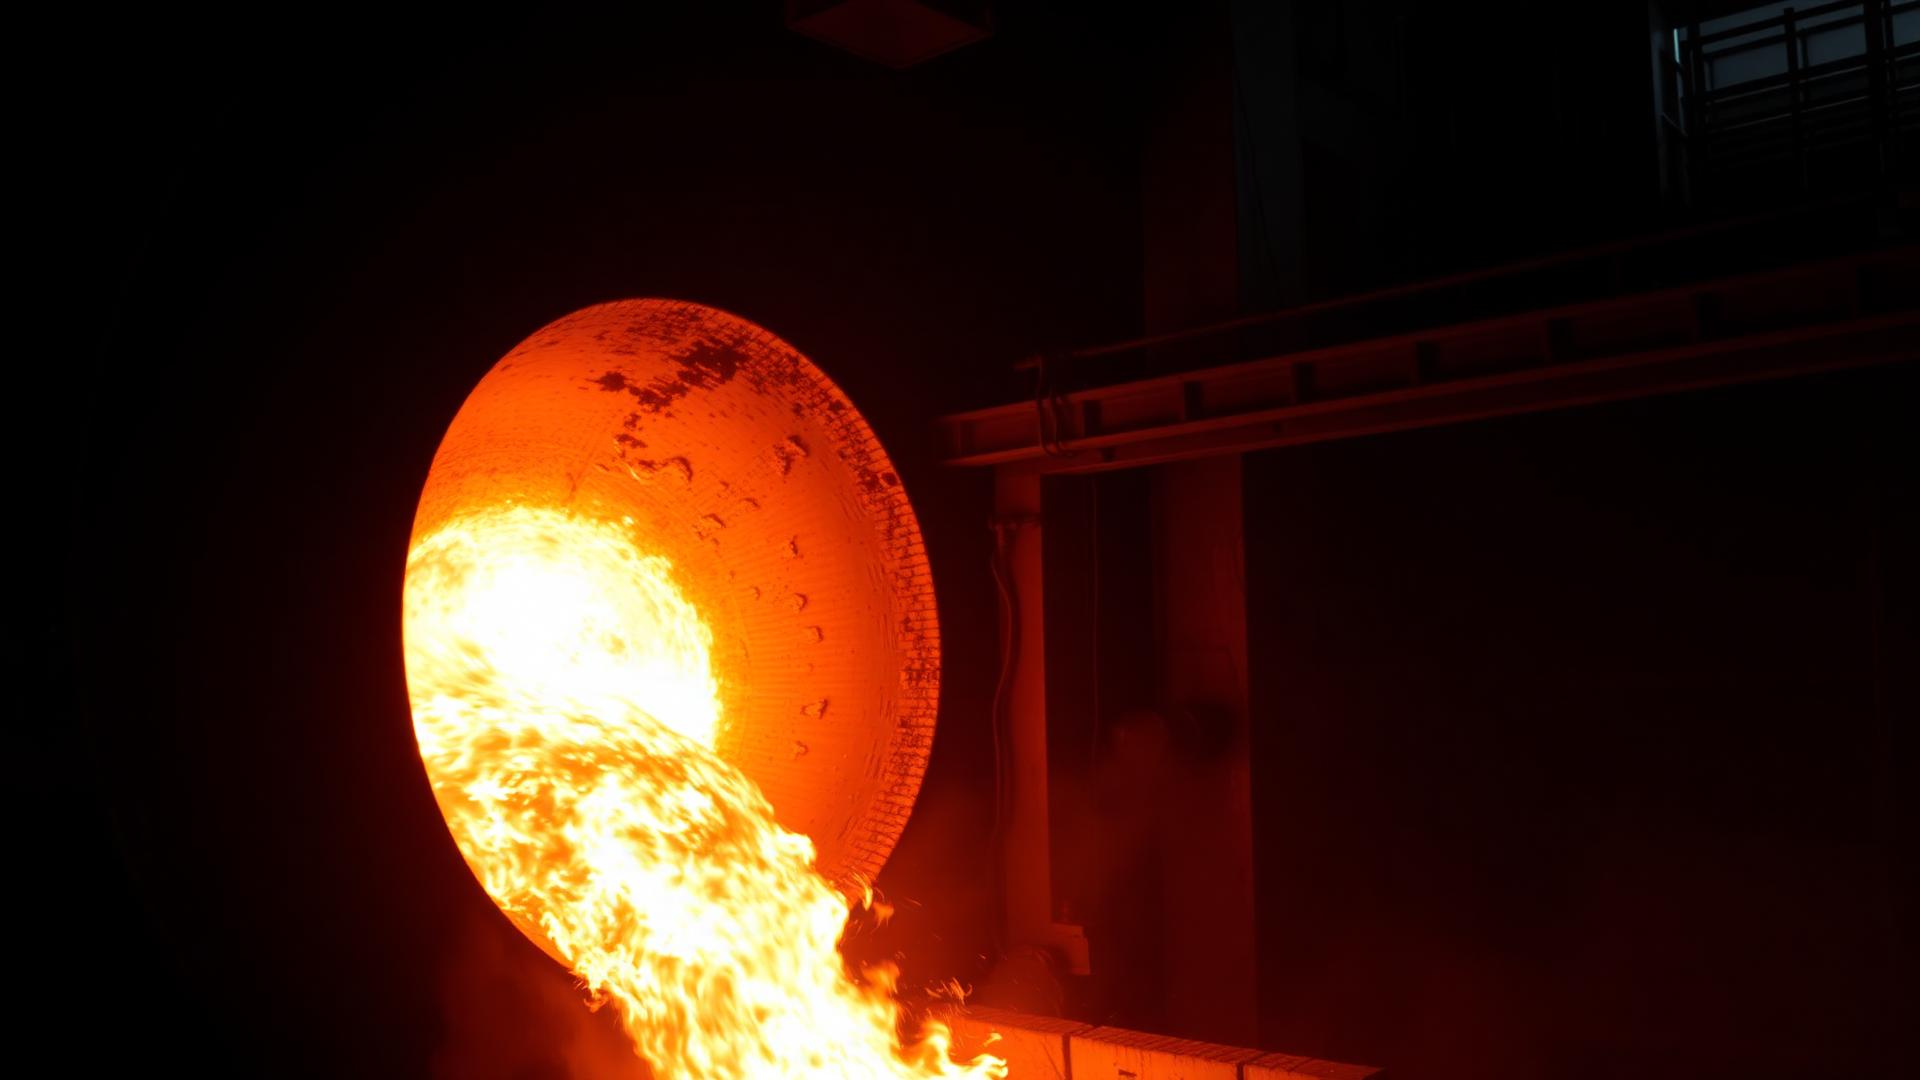
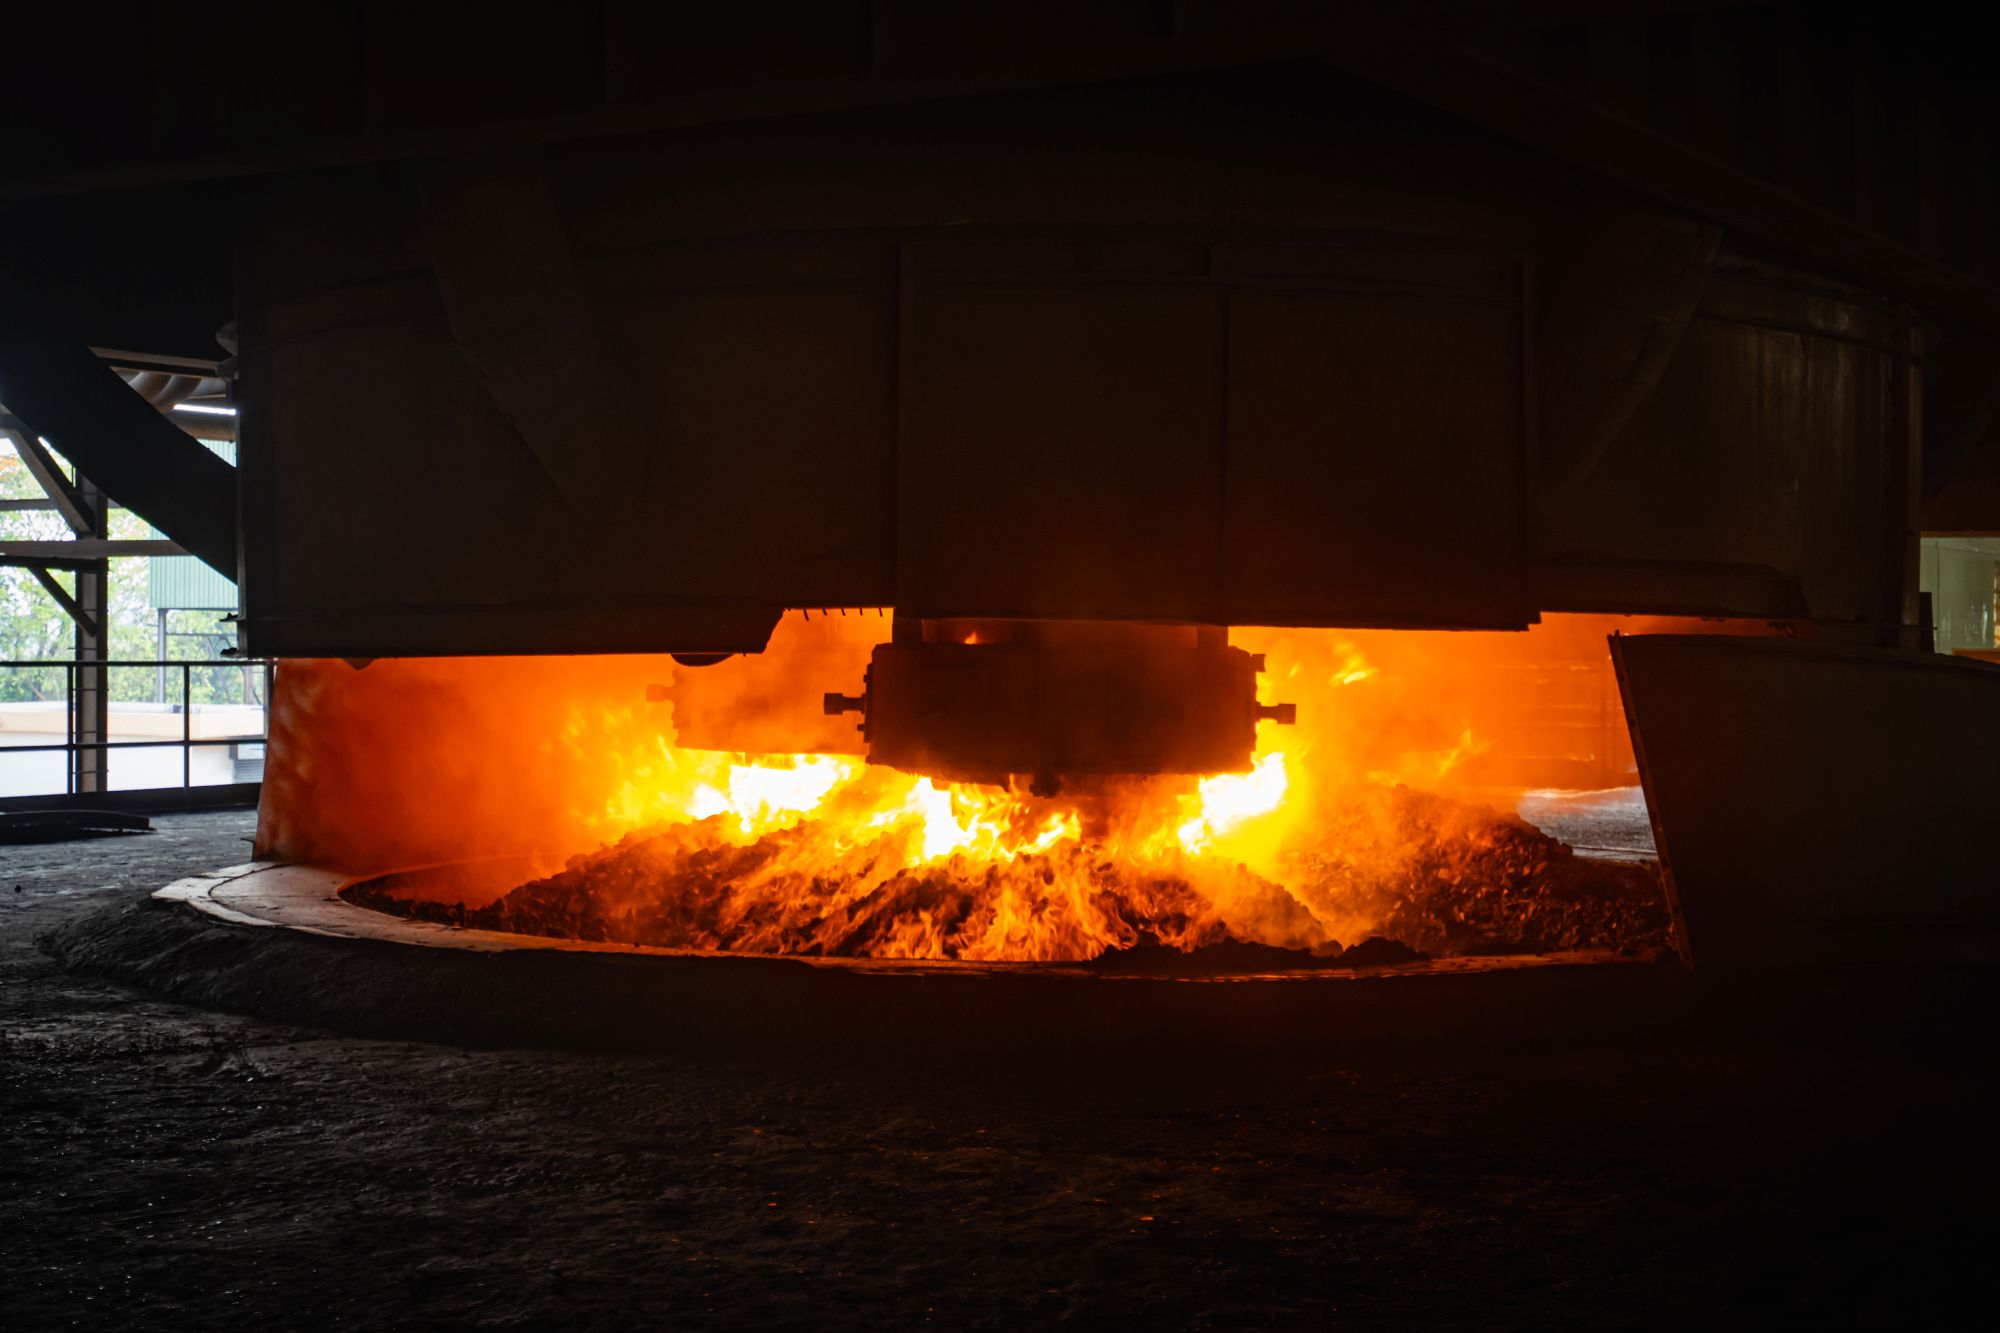
fixd

diff --git a/src/components/home/Business.tsx b/src/components/home/Business.tsx
@@ -1,3 +1,4 @@
+import { useState } from "react";
 import { ArrowUpRight } from "lucide-react";
 import productHc from "@/assets/product-hc.jpg";
 import productCoal from "@/assets/product-coal.jpg";
@@ -17,37 +18,57 @@ const products = [
 ];
 
 export function Business() {
+  const [activeIndex, setActiveIndex] = useState(0);
+
   return (
     <section className="relative py-24 px-6 lg:px-16 text-white overflow-hidden">
-      <img src={businessBg} alt="" width={1920} height={1024} loading="lazy" className="absolute inset-0 w-full h-full object-cover" />
-      <div className="absolute inset-0 bg-gradient-to-b from-black/70 via-black/60 to-black/80" />
-      <div className="relative max-w-[1400px] mx-auto">
-        <div className="text-center max-w-3xl mx-auto">
-          <h2 className="font-display font-semibold text-4xl md:text-5xl">Our Business</h2>
-          <p className="mt-5 text-white/80 leading-relaxed">
+      {/* Background Image and Overlay */}
+      <img src={businessBg} alt="" loading="lazy" className="absolute inset-0 w-full h-full object-cover" />
+      <div className="absolute inset-0 bg-black/80" />
+      
+      <div className="relative z-10 max-w-[1420px] mx-auto">
+        <div className="text-center max-w-[1061px] mx-auto flex flex-col items-center">
+          <h2 className="font-display font-semibold text-4xl md:text-5xl lg:text-[56px] leading-[1.1]">Our Business</h2>
+          <p className="mt-6 text-white text-[16px] lg:text-[24px] font-['Open_Sans'] leading-[1.4] lg:leading-[100%] text-center max-w-[900px]">
             Our product portfolio is built to serve varied steelmaking requirements, with Ferro Manganese grades that support strength, hardness, carbon control, and metallurgical consistency.
           </p>
-          <button className="mt-8 bg-brand text-brand-foreground text-xs font-bold tracking-widest px-6 py-3 rounded-md hover:opacity-90 transition">
+          <button className="mt-10 bg-[#EB1E28] text-white font-['Open_Sans'] text-[14px] font-semibold leading-[100%] tracking-[0.01em] uppercase px-8 h-[50px] rounded-[6px] flex items-center justify-center hover:opacity-90 transition">
             EXPLORE OUR PRODUCTS
           </button>
         </div>
-        <div className="mt-16 grid grid-cols-2 md:grid-cols-3 lg:grid-cols-6 gap-3">
-          {products.map((p, i) => (
-            <div key={p.name} className={`relative h-[360px] rounded-sm overflow-hidden group cursor-pointer ${i === 0 ? "ring-2 ring-brand" : ""}`}>
-              <img src={p.img} alt={p.name} width={512} height={800} loading="lazy" className="w-full h-full object-cover group-hover:scale-105 transition duration-500" />
-              {i === 0 && <div className="absolute inset-0 bg-brand/60" />}
-              <div className="absolute top-4 left-4">
-                <div className="w-10 h-10 bg-white rounded-sm flex items-center justify-center">
-                  <ArrowUpRight className="w-5 h-5 text-foreground" />
-                </div>
+
+        {/* Carousel / Grid */}
+        <div className="mt-20 flex flex-col lg:flex-row items-center justify-center gap-[20px] p-[10px] w-full mx-auto">
+          {products.map((p, i) => {
+            const isActive = i === activeIndex;
+            return (
+              <div 
+                key={p.name} 
+                onClick={() => setActiveIndex(i)}
+                className={`relative rounded-[10px] overflow-hidden shrink-0 transition-all duration-500 ease-in-out cursor-pointer shadow-lg
+                  ${isActive ? 'w-full lg:w-[350px] h-[500px]' : 'w-full lg:w-[190px] h-[300px] lg:h-[500px] hover:opacity-80'}`}
+              >
+                <img src={p.img} alt={p.name} loading="lazy" className="absolute inset-0 w-full h-full object-cover" />
+                
+                {/* Overlay for inactive cards (optional slight dimming) */}
+                {!isActive && <div className="absolute inset-0 bg-black/20" />}
+
+                {/* Active Card Content */}
+                {isActive && (
+                  <div className="absolute inset-[26px] bg-[#EB1E28]/60 flex flex-col items-center justify-between transition-opacity duration-500">
+                    <div className="flex-1 flex items-center justify-center w-full">
+                       <div className="w-[50px] h-[50px] bg-white rounded-sm flex items-center justify-center text-[#EB1E28] shadow-md">
+                         <ArrowUpRight className="w-6 h-6" strokeWidth={2.5} />
+                       </div>
+                    </div>
+                    <div className="w-[calc(100%-40px)] bg-white text-black py-4 px-2 mb-[20px] text-center text-[14px] font-bold font-['Open_Sans'] rounded-sm shadow-md leading-snug">
+                      {p.name}
+                    </div>
+                  </div>
+                )}
               </div>
-              {i === 0 && (
-                <div className="absolute bottom-4 left-4 right-4 bg-white text-foreground p-3 rounded-sm text-center text-xs font-semibold">
-                  {p.name}
-                </div>
-              )}
-            </div>
-          ))}
+            );
+          })}
         </div>
       </div>
     </section>

diff --git a/src/components/home/Stats.tsx b/src/components/home/Stats.tsx
@@ -1,43 +1,50 @@
-import heroFurnace from "@/assets/hero-furnace.jpg";
+import heroFurnace from "@/assets/hero-furnace1.jpg";
 import statPlant from "@/assets/stat-plant.jpg";
 import containers from "@/assets/containers.jpg";
 
 export function Stats() {
   return (
-    <section className="relative bg-surface text-surface-foreground py-20 px-6 lg:px-16 overflow-hidden">
-      <div className="absolute inset-0 opacity-30">
-        <img src={heroFurnace} alt="" width={1920} height={1080} loading="lazy" className="w-full h-full object-cover" />
-        <div className="absolute inset-0 bg-gradient-to-r from-surface via-surface/70 to-surface/40" />
+    <section className="relative w-full min-h-[900px] flex items-center justify-center py-20 lg:py-0 overflow-hidden">
+      {/* Background Image and Overlay */}
+      <div className="absolute inset-0 bg-black">
+        <img src={heroFurnace} alt="Background" loading="lazy" className="w-full h-full object-cover opacity-80" />
+        <div className="absolute inset-0 bg-gradient-to-r from-black via-black/60 to-black/10" />
       </div>
-      <div className="relative max-w-[1400px] mx-auto grid lg:grid-cols-2 gap-16 items-center">
-        <div className="space-y-14">
+
+      <div className="relative z-10 w-full max-w-[1418px] mx-auto px-6 xl:px-0 flex flex-col lg:flex-row items-center lg:items-start justify-between gap-16 lg:gap-0">
+
+        {/* Left Stats Column */}
+        <div className="w-full lg:w-[492px] flex flex-col gap-[50px] lg:mt-10">
           {[
             { num: "25+", title: "Countries Served Globally", desc: "Trusted suppliers ensures consistent raw material quality for stable production" },
             { num: "83,682 MT", title: "Annual Ferro Alloys Manufacturing Capacity", desc: "Large scale manufacturing projects each year with proven delivery timelines" },
             { num: "5,500+ MT", title: "Monthly Export Volume", desc: "Large scale manufacturing projects each year with proven delivery timelines" },
           ].map((s) => (
-            <div key={s.num} className="border-l-2 border-brand pl-6">
-              <div className="text-4xl md:text-5xl font-semibold">{s.num}</div>
-              <div className="mt-2 font-medium">{s.title}</div>
-              <div className="text-sm text-white/60 mt-1 max-w-md">{s.desc}</div>
+            <div key={s.num} className="border-l-2 border-[#EB1E28] pl-[20px] flex flex-col gap-[8px]">
+              <div className="text-[40px] md:text-[50px] font-bold text-white leading-none">{s.num}</div>
+              <div className="text-[16px] md:text-[18px] font-semibold text-white leading-snug">{s.title}</div>
+              <div className="text-[14px] text-white/70 max-w-[400px] leading-relaxed">{s.desc}</div>
             </div>
           ))}
         </div>
-        <div className="space-y-6">
+
+        {/* Right Images Column */}
+        <div className="w-full lg:w-[570px] flex flex-col gap-[40px]">
           {[
             { img: statPlant, title: "Largest Indian Producer", sub: "of MC & LC FeMn" },
             { img: containers, title: "Star Export House", sub: "Recognised Export Status" },
           ].map((c) => (
-            <div key={c.title} className="relative h-[200px] rounded-sm overflow-hidden group">
-              <img src={c.img} alt={c.title} width={768} height={512} loading="lazy" className="w-full h-full object-cover" />
-              <div className="absolute inset-0 bg-gradient-to-t from-black/80 via-black/30 to-transparent" />
-              <div className="absolute bottom-0 left-0 p-6 text-white">
-                <div className="text-2xl font-semibold">{c.title}</div>
-                <div className="text-sm text-white/80">{c.sub}</div>
+            <div key={c.title} className="relative w-full lg:w-[570px] h-[300px] rounded-[10px] overflow-hidden group">
+              <img src={c.img} alt={c.title} loading="lazy" className="absolute inset-0 w-full h-full object-cover group-hover:scale-105 transition duration-700" />
+              <div className="absolute inset-0 bg-gradient-to-t from-black/90 via-black/20 to-transparent" />
+              <div className="absolute bottom-0 left-0 p-8 text-white">
+                <div className="text-[26px] lg:text-[32px] font-bold leading-tight">{c.title}</div>
+                <div className="text-[14px] lg:text-[16px] font-medium text-white/80 mt-1">{c.sub}</div>
               </div>
             </div>
           ))}
         </div>
+
       </div>
     </section>
   );

diff --git a/src/components/home/Efficient.tsx b/src/components/home/Efficient.tsx
@@ -3,41 +3,41 @@ import efficientFurnace from "@/assets/efficient-furnace.jpg";
 
 export function Efficient() {
   return (
-    <section className="py-20 px-6 lg:px-16">
-      <div className="max-w-[1400px] mx-auto grid md:grid-cols-[536fr_794fr] gap-6 lg:gap-8 items-stretch">
+    <section className="py-20 px-6 lg:px-0">
+      <div className="w-full max-w-[1400px] mx-auto flex flex-col lg:flex-row items-center lg:items-stretch gap-10 lg:gap-[70px]">
         {/* Black info card */}
-        <div className="relative bg-black text-white rounded-[10px] p-10 lg:p-12 min-h-[420px] md:min-h-[577px] border border-white/10">
-          {/* Red arrow button overlapping top-right */}
-          <div className="absolute -top-5 -right-5 bg-brand w-14 h-14 rounded-[10px] flex items-center justify-center border-4 border-white shadow-lg">
-            <ArrowUpRight className="w-6 h-6 text-white" strokeWidth={2.5} />
+        <div className="relative bg-[#000000] rounded-[10px] p-8 lg:p-[60px] w-full lg:w-[536px] min-h-[420px] md:h-[577px] flex flex-col justify-center shrink-0">
+          {/* Red arrow button */}
+          <div className="absolute top-0 right-0 bg-[#EB1E28] w-[60px] h-[60px] flex items-center justify-center rounded-tr-[10px] rounded-bl-[10px]">
+            <ArrowUpRight className="w-[28px] h-[28px] text-white" strokeWidth={2} />
           </div>
 
-          <h3 className="font-display text-[28px] font-semibold leading-none pb-5 border-b border-white/30">
+          <h3 className="font-display text-[28px] lg:text-[32px] font-bold text-white leading-tight">
             Efficient by Design
           </h3>
 
-          <p className="mt-6 text-white text-[20px] lg:text-[22px] leading-snug font-normal">
+          <p className="mt-6 text-[#D5D5D5] text-[16px] lg:text-[18px] leading-[1.6] font-['Open_Sans'] max-w-[420px]">
             Our manufacturing approach is built around efficient operations, process discipline, and responsible resource use. This enables us to strengthen production consistency, improve operational reliability, and support cost-efficient Ferro Manganese manufacturing.
           </p>
 
-          <div className="mt-8 flex flex-wrap gap-5">
+          <div className="mt-10 flex flex-col gap-5">
             {[
               { icon: Lightbulb, label: "Think Long Term" },
               { icon: BarChart3, label: "Our Manufacturing Approach" },
             ].map((f) => (
-              <div key={f.label} className="flex items-center gap-3">
-                <div className="w-12 h-12 bg-brand rounded-[8px] flex items-center justify-center shrink-0">
-                  <f.icon className="w-6 h-6 text-white" />
+              <div key={f.label} className="flex items-center gap-4">
+                <div className="w-[42px] h-[42px] bg-[#EB1E28] rounded-[6px] flex items-center justify-center shrink-0">
+                  <f.icon className="w-[22px] h-[22px] text-white" />
                 </div>
-                <span className="text-base font-semibold text-white">{f.label}</span>
+                <span className="text-[16px] font-semibold font-['Open_Sans'] text-white">{f.label}</span>
               </div>
             ))}
           </div>
         </div>
 
         {/* Furnace image */}
-        <div className="relative min-h-[300px] md:min-h-[577px] rounded-[10px] overflow-hidden">
-          <img src={efficientFurnace} alt="Efficient furnace" width={794} height={577} loading="lazy" className="absolute inset-0 w-full h-full object-cover" />
+        <div className="w-full lg:w-[794px] h-[300px] md:h-[577px] rounded-[10px] overflow-hidden shrink-0">
+          <img src={efficientFurnace} alt="Efficient furnace" className="w-full h-full object-cover" loading="lazy" />
         </div>
       </div>
     </section>

diff --git a/src/components/layout/Header.tsx b/src/components/layout/Header.tsx
@@ -1,0 +1,28 @@
+import { Search, ChevronDown } from "lucide-react";
+import hiraLogo from "@/assets/hira_logo.jpg";
+
+const nav = ["About us", "Business", "Sustainability", "People", "Contact"];
+
+export function Header() {
+  return (
+    <header className="absolute top-0 left-0 right-0 z-30 bg-black/30 backdrop-blur-sm">
+      <div className="max-w-[1728px] mx-auto px-8 h-[110px] flex items-center justify-between text-white">
+        <a href="/" className="flex shrink-0">
+          <img src={hiraLogo} alt="HIRA Electro Smelters" className="h-[40px] md:h-[60px] w-auto object-contain" />
+        </a>
+        <nav className="hidden lg:flex items-center gap-9 text-[16px] font-medium">
+          {nav.map((n) => (
+            <a key={n} href="#" className="flex items-center gap-[10px] hover:text-[#EB1E28] transition-colors">
+              {n}
+              {["About us", "Business"].includes(n) && <ChevronDown className="w-3.5 h-3.5" />}
+            </a>
+          ))}
+          <Search className="w-4 h-4 cursor-pointer hover:text-[#EB1E28] transition-colors" />
+        </nav>
+        <button className="bg-[#EB1E28] text-white text-[14px] font-medium tracking-wider w-[140px] h-[50px] rounded-[6px] flex items-center justify-center hover:opacity-90 transition">
+          CONTACT US
+        </button>
+      </div>
+    </header>
+  );
+}

diff --git a/src/components/home/Intro.tsx b/src/components/home/Intro.tsx
@@ -2,23 +2,23 @@ import plantAerial from "@/assets/plant-aerial.jpg";
 
 export function Intro() {
   return (
-    <section className="py-20 px-6 lg:px-16">
-      <div className="max-w-[1400px] mx-auto grid lg:grid-cols-2 gap-12 items-center">
-        <div className="max-w-xl">
-          <h2 className="font-display font-semibold text-4xl md:text-5xl leading-tight">
-            <span className="text-brand">India's leading</span>{" "}
-            <span className="text-foreground">ferro alloys producers</span>
+    <section className="w-full flex flex-col lg:flex-row min-h-[738px] bg-white overflow-hidden">
+      <div className="w-full lg:w-7/12 flex flex-col justify-center px-6 lg:pl-[calc((100vw-1398px)/2)] lg:pr-16 py-20 lg:py-0">
+        <div className="max-w-[700px] xl:max-w-[750px]">
+          <h2 className="font-display font-semibold text-4xl md:text-5xl lg:text-[50px] leading-[100%] max-w-[524px]">
+            <span className="text-[#EB1E28]">India's leading</span>{" "}
+            <span className="text-black">ferro<br />alloys producers</span>
           </h2>
-          <p className="mt-6 text-muted-foreground leading-relaxed">
+          <p className="mt-6 text-black font-['Open_Sans'] text-[16px] md:text-[24px] leading-[100%] max-w-[614px] font-normal">
             Hira Electro Smelters Limited is one of India's leading ferro alloys producers, manufacturing various Ferro Manganese grades for steelmaking applications. Backed by the wider Hira Group ecosystem and strategically located near Visakhapatnam Port, we combine integrated manufacturing, process discipline, and export-ready infrastructure to serve customers across India and global markets.
           </p>
-          <button className="mt-8 bg-brand text-brand-foreground text-xs font-bold tracking-widest px-6 py-3 rounded-md hover:opacity-90 transition">
+          <button className="mt-10 bg-[#EB1E28] text-white font-['Open_Sans'] text-[14px] font-semibold leading-[100%] tracking-[0.01em] uppercase w-[226px] h-[50px] rounded-[6px] flex items-center justify-center hover:opacity-90 transition">
             KNOW MORE ABOUT US
           </button>
         </div>
-        <div className="relative">
-          <img src={plantAerial} alt="Hira plant aerial view" width={1564} height={738} loading="lazy" className="w-full h-[420px] object-cover rounded-sm" />
-        </div>
+      </div>
+      <div className="w-full lg:w-5/12 relative min-h-[400px] lg:min-h-full">
+        <img src={plantAerial} alt="Hira plant aerial view" className="absolute inset-0 w-full h-full object-cover" loading="lazy" />
       </div>
     </section>
   );

diff --git a/src/components/home/Footer.tsx b/src/components/home/Footer.tsx
@@ -1,13 +1,14 @@
+import hiraLogo from "@/assets/hira_logo.jpg";
+
 export function Footer() {
   return (
     <footer className="bg-black text-white px-6 lg:px-16 pt-0 pb-8">
       <div className="max-w-[1400px] mx-auto -mt-[96px] bg-black px-0 pt-[156px] pb-0">
         <div className="grid gap-12 lg:grid-cols-[217px_1fr] lg:items-start">
           <div>
-            <div className="flex flex-col leading-none">
-              <span className="text-[58px] font-bold tracking-tight text-white">HIRA</span>
-              <span className="mt-1 text-[12px] font-semibold tracking-[0.08em] text-white">HIRA ELECTRO SMELTERS</span>
-            </div>
+            <a href="/" className="flex shrink-0">
+              <img src={hiraLogo} alt="HIRA Electro Smelters" className="h-[60px] md:h-[80px] w-auto object-contain" />
+            </a>
             <p className="mt-6 text-sm text-white/90">
               Follow us on <a href="#" className="text-brand hover:underline">Linkedin</a>
             </p>

diff --git a/src/components/home/Hero.tsx b/src/components/home/Hero.tsx
@@ -6,10 +6,10 @@ export function Hero() {
       <img src={heroFurnace} alt="Ferro alloy furnace" width={1920} height={1080} className="absolute inset-0 w-full h-full object-cover" />
       <div className="absolute inset-0 bg-gradient-to-b from-black/90 via-black/40 to-black/70" />
       <div className="relative h-full flex flex-col items-center justify-center text-center text-white px-6">
-        <h1 className="font-display font-semibold text-4xl md:text-6xl lg:text-7xl leading-tight max-w-5xl">
+        <h1 className="font-display font-semibold text-4xl md:text-6xl lg:text-[70px] leading-[100%] tracking-[0.01em] max-w-[913px] mx-auto">
           Ferro Alloys Built for the<br />Steel Value Chain
         </h1>
-        <button className="mt-10 bg-brand text-brand-foreground text-xs font-bold tracking-widest px-6 py-3 rounded-md hover:opacity-90 transition">
+        <button className="mt-8 bg-[#EB1E28] text-white font-['Open_Sans'] text-[14px] font-semibold leading-[100%] tracking-[0.01em] uppercase w-[226px] h-[50px] rounded-[6px] flex items-center justify-center mx-auto hover:opacity-90 transition">
           KNOW MORE ABOUT US
         </button>
       </div>

diff --git a/src/routes/__root.tsx b/src/routes/__root.tsx
@@ -11,6 +11,8 @@ import { useEffect, type ReactNode } from "react";
 
 import appCss from "../styles.css?url";
 import { reportLovableError } from "../lib/lovable-error-reporting";
+import { Header } from "@/components/layout/Header";
+
 
 function NotFoundComponent() {
   return (
@@ -118,6 +120,7 @@ function RootComponent() {
 
   return (
     <QueryClientProvider client={queryClient}>
+      <Header />
       {/* Required: nested routes render here. Removing <Outlet /> breaks all child routes. */}
       <Outlet />
     </QueryClientProvider>

diff --git a/src/routes/index.tsx b/src/routes/index.tsx
@@ -1,5 +1,4 @@
 import { createFileRoute } from "@tanstack/react-router";
-import { Header } from "@/components/home/Header";
 import { Hero } from "@/components/home/Hero";
 import { Intro } from "@/components/home/Intro";
 import { Stats } from "@/components/home/Stats";
@@ -21,7 +20,6 @@ export const Route = createFileRoute("/")({
 function Index() {
   return (
     <div className="bg-background min-h-screen">
-      <Header />
       <Hero />
       <Intro />
       <Stats />